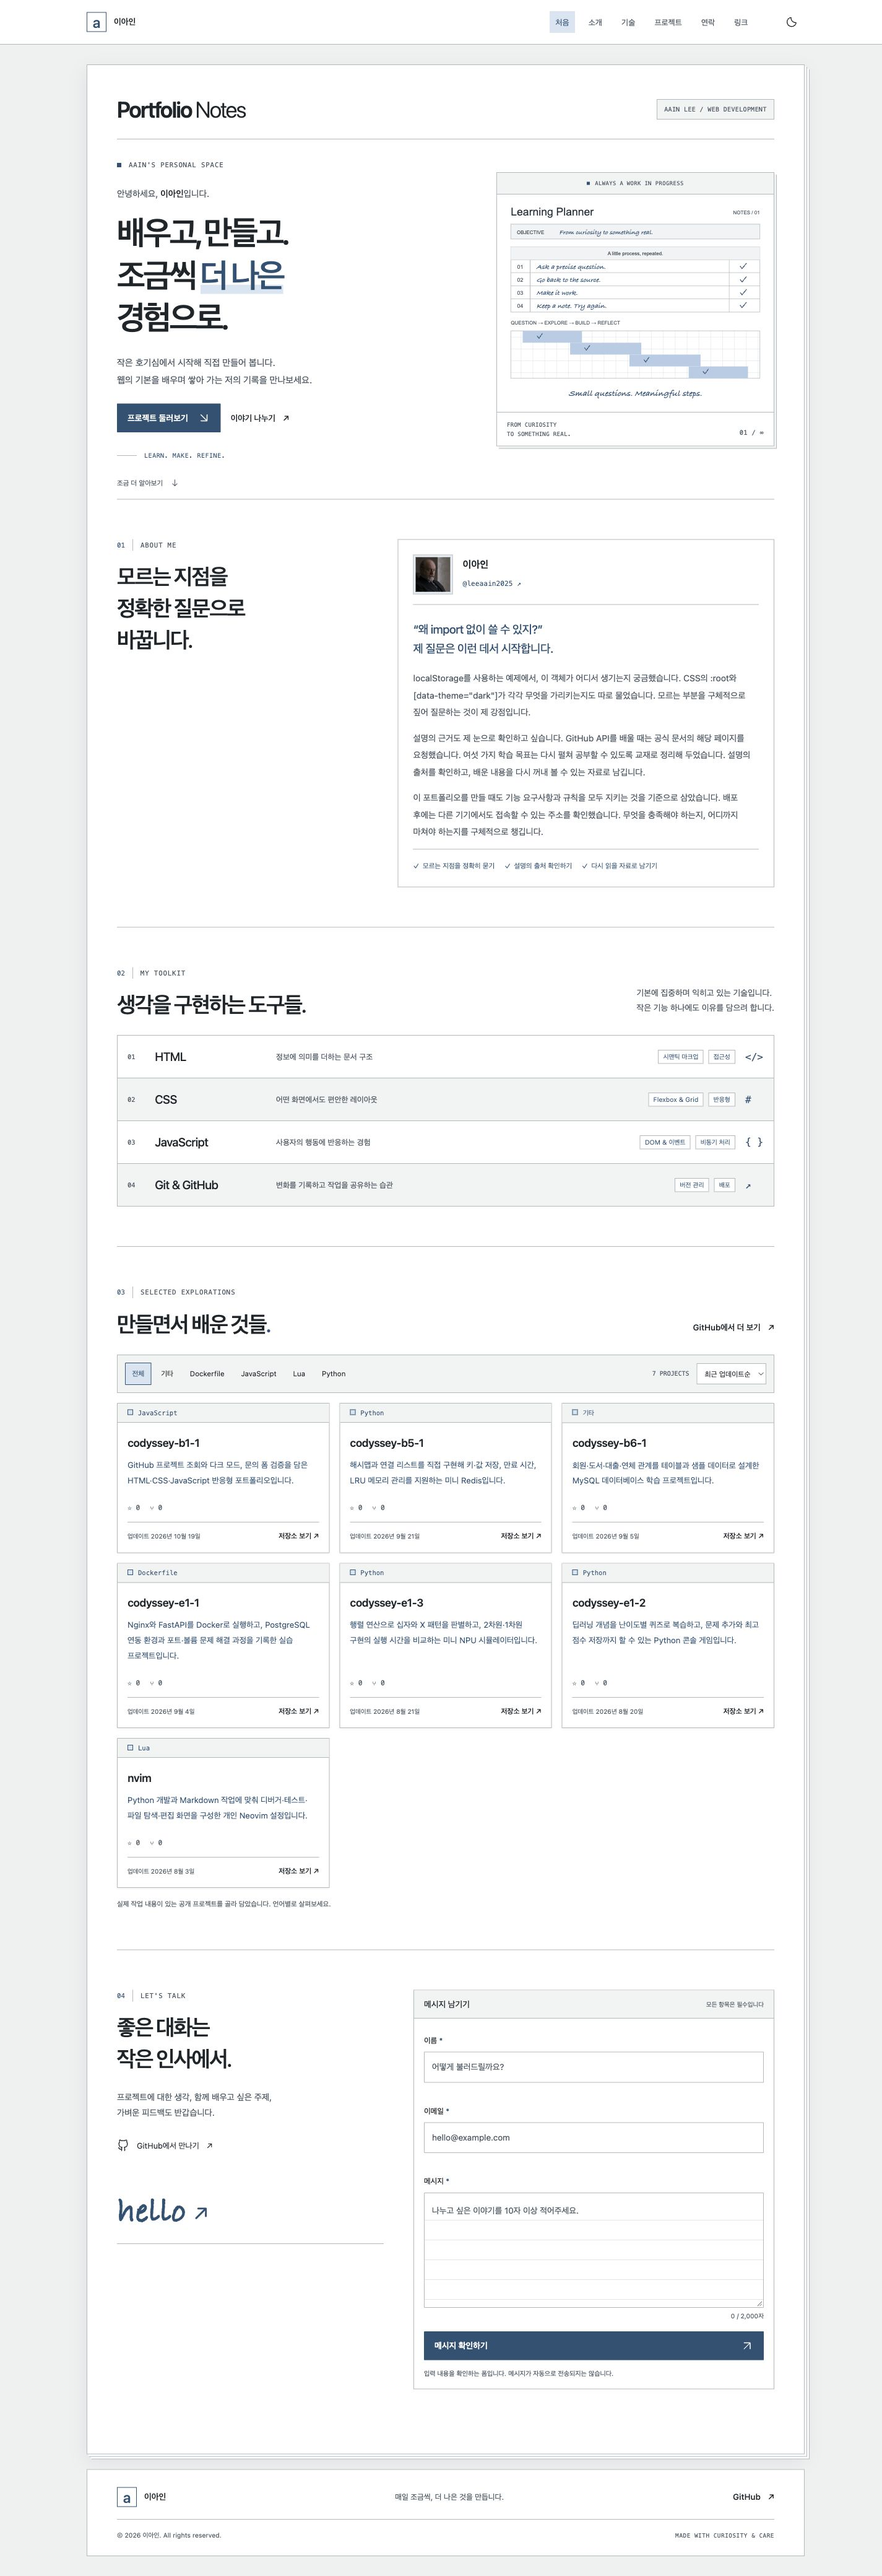
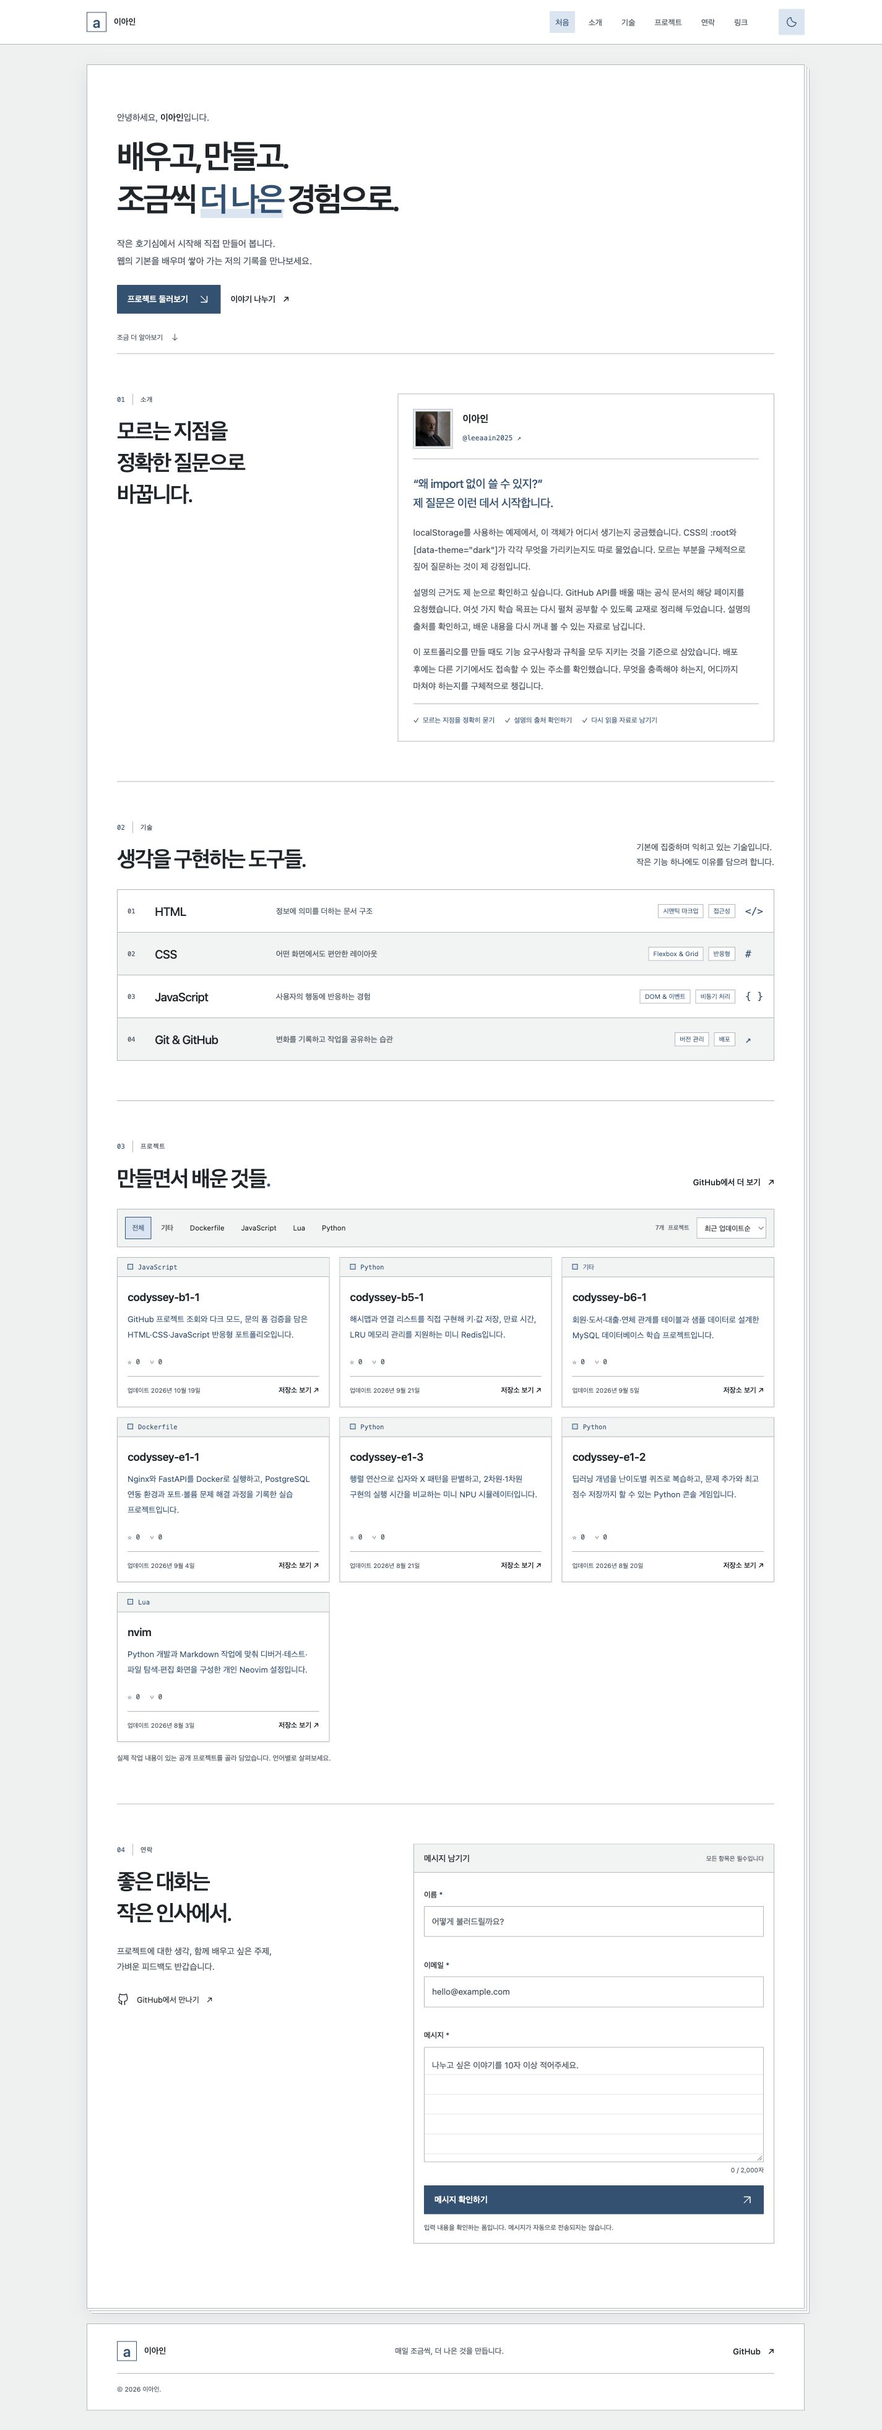
design: remove planner illustration and decorative English copy

diff --git a/css/style.css b/css/style.css
@@ -16,7 +16,6 @@
   --color-header: #e7eff6;
   --color-button-text: #ffffff;
   --font-body: -apple-system, BlinkMacSystemFont, "Apple SD Gothic Neo", "Malgun Gothic", sans-serif;
-  --font-serif: "Segoe Print", "Bradley Hand", cursive;
   --font-mono: "SFMono-Regular", Consolas, monospace;
   --space-1: 0.25rem;
   --space-2: 0.5rem;
@@ -81,7 +80,6 @@ ul { padding: 0; margin: 0; list-style: none; }
 .skip-link { position: fixed; top: -100px; left: 1rem; z-index: 100; padding: var(--space-3) var(--space-6); background: var(--color-text); color: var(--color-bg); }
 .skip-link:focus { top: 1rem; }
 .eyebrow { display: flex; align-items: center; gap: var(--space-3); color: var(--color-muted); font-family: var(--font-mono); font-size: 0.67rem; font-weight: 500; letter-spacing: 0.08em; }
-.status-dot { display: inline-block; width: 7px; height: 7px; background: var(--color-accent); }
 .section-number { color: var(--color-accent); letter-spacing: 0; padding-right: var(--space-3); border-right: 1px solid var(--color-border); }
 .section { padding-block: var(--space-section); border-top: 1px solid var(--color-border); }
 .section-heading { margin-bottom: var(--space-6); }
@@ -119,27 +117,14 @@ ul { padding: 0; margin: 0; list-style: none; }
 .nav-link { display: block; padding: 0.8rem 1rem; color: var(--color-muted); font-size: 0.82rem; transition: color 180ms, background 180ms; }
 .nav-link:hover, .nav-link[aria-current] { color: var(--color-accent); background: var(--color-accent-soft); }
 
-.hero { display: grid; position: relative; padding-block: 0 3.5rem; gap: var(--space-8); }
-.sheet-topline { display: flex; justify-content: space-between; align-items: center; gap: var(--space-4); flex-wrap: wrap; padding-bottom: var(--space-4); border-bottom: 1px solid var(--color-border); }
-.sheet-title { margin: 0; font-size: clamp(1.65rem, 4vw, 2.25rem); font-weight: 600; letter-spacing: -0.05em; }
-.sheet-title span { font-weight: 300; }
-.sheet-reference { color: var(--color-muted); font: 0.62rem/1.8 var(--font-mono); letter-spacing: 0.04em; border: 1px solid var(--color-border); padding: 0.4rem 0.7rem; background: var(--color-section); }
-.hero-copy .eyebrow { margin-bottom: var(--space-6); }
+.hero { position: relative; padding-block: var(--space-6) 4rem; }
+.hero-copy { max-width: 48rem; }
 .hero-greeting { color: var(--color-muted); margin-bottom: var(--space-4); font-size: 0.9rem; }
 .hero-greeting strong { color: var(--color-text); font-weight: 600; }
 .hero h1 { font-size: clamp(2.1rem, 7vw, 3.3rem); font-weight: 550; line-height: 1.3; letter-spacing: -0.065em; margin-bottom: var(--space-6); }
 .accent-word { color: var(--color-accent); box-shadow: inset 0 -0.28em var(--color-accent-soft); }
 .hero-description { color: var(--color-muted); font-size: 0.88rem; line-height: 1.9; margin-bottom: var(--space-6); }
 .hero-actions { display: flex; align-items: center; flex-wrap: wrap; gap: var(--space-4); }
-.hero-footnote { display: flex; align-items: center; gap: var(--space-3); margin-top: var(--space-6); color: var(--color-accent); font: 0.62rem var(--font-mono); letter-spacing: 0.06em; }
-.small-line { display: block; height: 1px; width: 32px; background: var(--color-border); }
-.hero-art { position: relative; align-self: center; min-width: 0; background: var(--color-surface); border: 1px solid var(--color-border); box-shadow: 3px 3px 0 var(--color-section), 4px 4px 0 var(--color-border); }
-.art-label { display: flex; justify-content: center; align-items: center; gap: var(--space-2); padding: var(--space-3); background: var(--color-section); border-bottom: 1px solid var(--color-border); font: 0.55rem var(--font-mono); color: var(--color-muted); letter-spacing: 0.05em; }
-.art-label .status-dot { width: 5px; height: 5px; }
-.workspace-image { width: 100%; }
-[data-theme="dark"] .workspace-image { filter: invert(0.88) hue-rotate(175deg); }
-.art-caption { display: flex; justify-content: space-between; align-items: end; gap: var(--space-4); padding: var(--space-3) var(--space-4); border-top: 1px solid var(--color-border); font: 0.57rem/1.6 var(--font-mono); color: var(--color-muted); letter-spacing: 0.03em; }
-.art-number { font-size: 0.65rem; }
 .scroll-cue { position: absolute; bottom: var(--space-4); left: 0; display: flex; align-items: center; gap: var(--space-3); color: var(--color-muted); font-size: 0.7rem; }
 .scroll-cue .icon { width: 15px; height: 15px; }
 
@@ -208,7 +193,6 @@ a.project-card__link:hover { color: var(--color-accent); text-decoration: underl
 .contact-copy > p:not(.eyebrow) { color: var(--color-muted); font-size: 0.88rem; }
 .contact-github { display: inline-flex; align-items: center; gap: var(--space-3); margin-top: var(--space-4); font-size: 0.8rem; }
 .contact-github:hover { color: var(--color-accent); }
-.contact-decoration { display: none; }
 .contact-form { min-width: 0; border: 1px solid var(--color-border); background: var(--color-surface); padding: var(--space-4); }
 .form-topline { display: flex; flex-wrap: wrap; align-items: center; justify-content: space-between; gap: var(--space-2); margin: -1rem -1rem 1.5rem; padding: 0.65rem 1rem; border-bottom: 1px solid var(--color-border); background: var(--color-section); font-size: 0.85rem; font-weight: 500; }
 .form-topline > span:last-child { font-size: 0.63rem; color: var(--color-muted); font-weight: 400; }
@@ -235,7 +219,6 @@ a.project-card__link:hover { color: var(--color-accent); text-decoration: underl
 .footer-main > p { width: 100%; order: 3; margin: 0; color: var(--color-muted); font-size: 0.78rem; }
 .footer-bottom { display: flex; flex-direction: column; gap: var(--space-2); border-top: 1px solid var(--color-border); padding-top: var(--space-4); color: var(--color-muted); }
 .footer-bottom small { font-size: 0.65rem; }
-.footer-bottom > span { font: 0.58rem var(--font-mono); letter-spacing: 0.06em; }
 .back-to-top { position: fixed; right: var(--space-4); bottom: var(--space-4); z-index: 20; background: var(--color-surface); box-shadow: var(--shadow-hover); }
 .noscript-message { padding: var(--space-6); color: var(--color-text); background: var(--color-accent-soft); }
 .reveal.will-reveal { opacity: 0; transform: translateY(16px); transition: opacity 550ms ease, transform 550ms ease; }
@@ -249,8 +232,7 @@ a.project-card__link:hover { color: var(--color-accent); text-decoration: underl
   .nav-link { padding: 0.4rem 0.6rem; font-size: 0.75rem; }
   .nav-actions { margin-left: var(--space-2); }
   .menu-toggle { display: none; }
-  .hero { grid-template-columns: 1.1fr 0.9fr; align-items: center; gap: var(--space-8); padding-bottom: 4rem; }
-  .sheet-topline { grid-column: 1 / -1; }
+  .hero { padding-block: var(--space-8) 4rem; }
   .hero h1 { font-size: clamp(2.3rem, 4.1vw, 3.3rem); }
   .hero-description { font-size: 0.83rem; }
   .about-layout { grid-template-columns: 0.8fr 1.2fr; gap: var(--space-8); }
@@ -260,8 +242,6 @@ a.project-card__link:hover { color: var(--color-accent); text-decoration: underl
   .skill-tags { grid-column: 3; grid-row: 2; }
   .skill-symbol { grid-column: 4; grid-row: 1 / 3; }
   .contact-section { grid-template-columns: 0.85fr 1.15fr; gap: var(--space-8); }
-  .contact-decoration { display: block; color: var(--color-accent); font-family: var(--font-serif); font-size: 3.5rem; line-height: 1.5; margin-top: var(--space-12); padding-bottom: 0.5rem; border-bottom: 1px solid var(--color-border); }
-  .contact-decoration span { display: inline-block; font-family: var(--font-body); font-size: 2rem; padding-left: var(--space-3); }
   .site-footer { width: min(calc(100% - 4rem), 1160px); padding-inline: 2rem; margin-top: 1.5rem; }
   .footer-main > p { width: auto; order: initial; }
   .footer-bottom { flex-direction: row; align-items: center; justify-content: space-between; }
@@ -273,9 +253,7 @@ a.project-card__link:hover { color: var(--color-accent); text-decoration: underl
   .navigation { gap: var(--space-8); }
   .nav-links { gap: var(--space-3); }
   .nav-link { font-size: 0.8rem; }
-  .hero { column-gap: 4rem; row-gap: var(--space-8); }
   .hero-description { font-size: 0.93rem; }
-  .hero-footnote { margin-top: var(--space-8); }
   .section-heading-row { display: flex; align-items: end; justify-content: space-between; gap: var(--space-8); }
   .section-heading-row .section-intro { margin: 0 0 var(--space-2); }
   .about-layout { gap: var(--space-12); }

diff --git a/index.html b/index.html
@@ -45,22 +45,14 @@
 
   <main id="main-content" tabindex="-1">
     <section class="hero container" id="hero" aria-labelledby="hero-title">
-      <div class="sheet-topline"><p class="sheet-title">Portfolio <span>Notes</span></p><span class="sheet-reference">AAIN LEE / WEB DEVELOPMENT</span></div>
       <div class="hero-copy">
-        <p class="eyebrow"><span class="status-dot" aria-hidden="true"></span> AAIN'S PERSONAL SPACE</p>
         <p class="hero-greeting">안녕하세요, <strong data-profile-name>이아인</strong>입니다.</p>
-        <h1 id="hero-title">배우고, 만들고.<br>조금씩 <span class="accent-word">더 나은</span><br>경험으로.</h1>
+        <h1 id="hero-title">배우고, 만들고.<br>조금씩 <span class="accent-word">더 나은</span> 경험으로.</h1>
         <p class="hero-description">작은 호기심에서 시작해 직접 만들어 봅니다.<br>웹의 기본을 배우며 쌓아 가는 저의 기록을 만나보세요.</p>
         <div class="hero-actions">
           <a class="button button-primary" href="#projects">프로젝트 둘러보기 <svg class="icon" aria-hidden="true"><use href="images/icons.svg#arrow-down-right"></use></svg></a>
           <a class="text-link" href="#contact">이야기 나누기 <span aria-hidden="true">↗</span></a>
         </div>
-        <div class="hero-footnote"><span class="small-line" aria-hidden="true"></span> LEARN. MAKE. REFINE.</div>
-      </div>
-      <div class="hero-art" aria-label="질문에서 기록까지, 배우는 과정을 담은 플래너">
-        <div class="art-label"><span class="status-dot" aria-hidden="true"></span> ALWAYS A WORK IN PROGRESS</div>
-        <img class="workspace-image" src="images/workspace.svg" alt="질문하기, 근거 확인하기, 직접 만들기, 기록하기를 표와 파란 격자로 표현한 학습 플래너" width="560" height="440" fetchpriority="high">
-        <div class="art-caption"><span>FROM CURIOSITY<br>TO SOMETHING REAL.</span><span class="art-number" aria-hidden="true">01 / ∞</span></div>
       </div>
       <a class="scroll-cue" href="#about"><span>조금 더 알아보기</span><svg class="icon" aria-hidden="true"><use href="images/icons.svg#arrow-down"></use></svg></a>
     </section>
@@ -68,7 +60,7 @@
     <section class="section about-section" id="about" aria-labelledby="about-title">
       <div class="container about-layout">
         <div class="section-heading reveal">
-          <p class="eyebrow"><span class="section-number">01</span> ABOUT ME</p>
+          <p class="eyebrow"><span class="section-number">01</span> 소개</p>
           <h2 id="about-title">모르는 지점을<br>정확한 질문으로<br>바꿉니다.</h2>
         </div>
         <div class="about-content reveal">
@@ -87,7 +79,7 @@
 
     <section class="section skills-section container" id="skills" aria-labelledby="skills-title">
       <div class="section-heading section-heading-row reveal">
-        <div><p class="eyebrow"><span class="section-number">02</span> MY TOOLKIT</p><h2 id="skills-title">생각을 구현하는 도구들.</h2></div>
+        <div><p class="eyebrow"><span class="section-number">02</span> 기술</p><h2 id="skills-title">생각을 구현하는 도구들.</h2></div>
         <p class="section-intro">기본에 집중하며 익히고 있는 기술입니다.<br>작은 기능 하나에도 이유를 담으려 합니다.</p>
       </div>
       <ul class="skills-list">
@@ -101,12 +93,12 @@
     <section class="section projects-section" id="projects" aria-labelledby="projects-title">
       <div class="container">
         <div class="section-heading section-heading-row reveal">
-          <div><p class="eyebrow"><span class="section-number">03</span> SELECTED EXPLORATIONS</p><h2 id="projects-title">만들면서 배운 것들<span class="heading-dot">.</span></h2></div>
+          <div><p class="eyebrow"><span class="section-number">03</span> 프로젝트</p><h2 id="projects-title">만들면서 배운 것들<span class="heading-dot">.</span></h2></div>
           <a class="text-link" data-github-link href="https://github.com/leeaain2025" target="_blank" rel="noopener noreferrer">GitHub에서 더 보기 <span aria-hidden="true">↗</span></a>
         </div>
         <div class="projects-toolbar">
           <div class="filter-group" id="project-filters" role="group" aria-label="프로젝트 언어 필터" hidden></div>
-          <div class="sort-control"><span class="project-total"><span id="project-count">0</span> PROJECTS</span><label class="visually-hidden" for="project-sort">프로젝트 정렬</label><select id="project-sort" disabled><option value="updated">최근 업데이트순</option><option value="stars">별이 많은 순</option></select></div>
+          <div class="sort-control"><span class="project-total"><span id="project-count">0</span>개 프로젝트</span><label class="visually-hidden" for="project-sort">프로젝트 정렬</label><select id="project-sort" disabled><option value="updated">최근 업데이트순</option><option value="stars">별이 많은 순</option></select></div>
         </div>
         <p class="visually-hidden" id="projects-status" role="status" aria-live="polite" aria-atomic="true">프로젝트를 불러오는 중입니다.</p>
         <div class="project-state" id="projects-state" data-state="loading">
@@ -122,11 +114,10 @@
 
     <section class="section contact-section container" id="contact" aria-labelledby="contact-title">
       <div class="contact-copy reveal">
-        <p class="eyebrow"><span class="section-number">04</span> LET'S TALK</p>
+        <p class="eyebrow"><span class="section-number">04</span> 연락</p>
         <h2 id="contact-title">좋은 대화는<br>작은 인사에서.</h2>
         <p>프로젝트에 대한 생각, 함께 배우고 싶은 주제,<br>가벼운 피드백도 반갑습니다.</p>
         <a class="contact-github" data-github-link href="https://github.com/leeaain2025" target="_blank" rel="noopener noreferrer"><svg class="icon" aria-hidden="true"><use href="images/icons.svg#github"></use></svg><span>GitHub에서 만나기</span><span aria-hidden="true">↗</span></a>
-        <div class="contact-decoration" aria-hidden="true">hello<span>↗</span></div>
       </div>
       <form class="contact-form reveal" id="contact-form" novalidate>
         <div class="form-topline"><span>메시지 남기기</span><span>모든 항목은 필수입니다</span></div>
@@ -143,7 +134,7 @@
 
   <footer class="site-footer" id="footer">
     <div class="container footer-main"><a class="brand" href="#hero" aria-label="처음으로"><span class="brand-mark" aria-hidden="true">a<span>·</span></span><span data-profile-name>이아인</span></a><p>매일 조금씩, 더 나은 것을 만듭니다.</p><a class="text-link" data-github-link href="https://github.com/leeaain2025" target="_blank" rel="noopener noreferrer">GitHub <span aria-hidden="true">↗</span></a></div>
-    <div class="container footer-bottom"><small>© <span id="copyright-year">2026</span> <span data-profile-name>이아인</span>. All rights reserved.</small><span>MADE WITH CURIOSITY & CARE</span></div>
+    <div class="container footer-bottom"><small>© <span id="copyright-year">2026</span> <span data-profile-name>이아인</span>.</small></div>
   </footer>
   <button class="back-to-top icon-button" id="back-to-top" type="button" aria-label="페이지 맨 위로 이동" hidden><svg class="icon" aria-hidden="true"><use href="images/icons.svg#arrow-up"></use></svg></button>
   <p class="visually-hidden" id="theme-status" role="status" aria-live="polite"></p>

diff --git a/README.md b/README.md
@@ -37,13 +37,13 @@ python3 -m http.server 5500
 
 ## 디자인
 
-사용자가 제공한 프로젝트 플래너 이미지를 참고해 흰 종이, 얇은 회색 표 선, 파란 잉크와 체크 표시를 사용했습니다. 종이가 겹친 듯한 프레임, 표 형태의 기술 목록, 기록지 형태의 프로젝트 카드, 줄이 있는 문의 폼으로 구성했습니다. 기존 소개 문구와 기능을 유지하며 CSS와 로컬 SVG를 중심으로 변경했습니다.
+사용자가 제공한 프로젝트 플래너 이미지를 참고해 흰 종이, 얇은 회색 표 선, 파란 잉크와 체크 표시를 사용했습니다. 종이가 겹친 듯한 프레임, 표 형태의 기술 목록, 기록지 형태의 프로젝트 카드, 줄이 있는 문의 폼으로 구성했습니다. 플래너 그림, 영문 제목·슬로건·장식은 제거하고 기존 소개 문구와 기능을 유지했습니다.
 
 ## 화면 구성과 주요 기능
 
 | 영역 | 내용과 동작 |
 | --- | --- |
-| Hero | 인사말, 학습 플래너 일러스트, 프로젝트·연락 영역으로 이동하는 CTA |
+| Hero | 인사말과 프로젝트·연락 영역으로 이동하는 CTA |
 | About | 자기소개, GitHub 프로필 이미지와 계정 링크. 이미지 오류 시 로컬 이니셜 이미지로 대체 |
 | Skills | HTML, CSS, JavaScript, Git & GitHub 기술 목록 |
 | Projects | 실제 작업이 있는 GitHub 프로젝트의 한 문장 소개, API 카드, 로딩·성공·에러·빈 상태, 재시도, 언어 필터, 정렬 |
@@ -69,7 +69,6 @@ python3 -m http.server 5500
 │   ├── projects.js           # GitHub 요청, 카드, 필터, 정렬, 상태 화면
 │   └── contact.js            # 문의 폼 상태, 검증, 화면 갱신
 ├── images/
-│   ├── workspace.svg         # Hero 학습 플래너 일러스트
 │   ├── profile.svg           # 프로필 이미지 대체용 이니셜
 │   ├── icons.svg             # 로컬 SVG 아이콘 모음
 │   └── favicon.svg           # 브라우저 탭 아이콘
@@ -97,7 +96,7 @@ python3 -m http.server 5500
 | Grid | 프로젝트 카드처럼 행과 열을 함께 구성하는 배치에 사용합니다. `repeat(auto-fit, minmax(min(100%, 19rem), 1fr))`로 공간에 맞는 열 수를 만듭니다. |
 | 모바일 퍼스트 CSS | 작은 화면을 기본으로 작성하고 `min-width: 768px`, `min-width: 1024px`에서 배치와 여백을 확장합니다. |
 | 브라우저 기본 JavaScript | DOM, 이벤트, `fetch`, `localStorage`, `IntersectionObserver`를 직접 사용하여 상태와 화면의 연결을 학습합니다. |
-| 로컬 SVG·시스템 폰트 | 별도 UI 라이브러리나 외부 아이콘 패키지 없이 아이콘과 일러스트를 표시합니다. |
+| 로컬 SVG·시스템 폰트 | 별도 UI 라이브러리나 외부 아이콘 패키지 없이 아이콘과 프로필 대체 이미지를 표시합니다. |
 
 React, Vue, jQuery, Bootstrap, Tailwind를 사용하지 않았습니다. 인라인 `style`과 `onclick`을 사용하지 않고 클래스·데이터 속성과 `addEventListener`로 동작을 연결합니다. 변수 선언은 `const`와 `let`만 사용합니다.
 

diff --git a/docs/requirements.md b/docs/requirements.md
@@ -19,7 +19,7 @@
 | HTML-06 | Contact 폼 | `#contact-form` | 이름·이메일·메시지 입력 확인 |
 | HTML-07 | Footer 저작권·소셜 | `#footer`, GitHub 링크, 현재 연도 | 링크 대상과 연도 확인 |
 | HTML-08 | 각 섹션 앵커 메뉴 | `#nav-links`의 Hero·About·Skills·Projects·Contact·Footer | 모든 `href="#..."`가 실제 고유 ID를 가리키는지 확인 |
-| HTML-09 | 의미 있는 이미지 alt | 학습 플래너 설명과 GitHub 프로필 설명 | 모든 `img`의 alt와 내용 비교 |
+| HTML-09 | 의미 있는 이미지 alt | GitHub 프로필 설명과 오류 시 이니셜 이미지 설명 | 모든 `img`의 alt와 내용 비교 |
 | HTML-10 | label 연결 | `for="contact-name/email/message"`, 해당 ID | label 클릭 시 입력 포커스 확인 |
 
 ## 2. CSS·반응형 — PDF 2~3쪽
